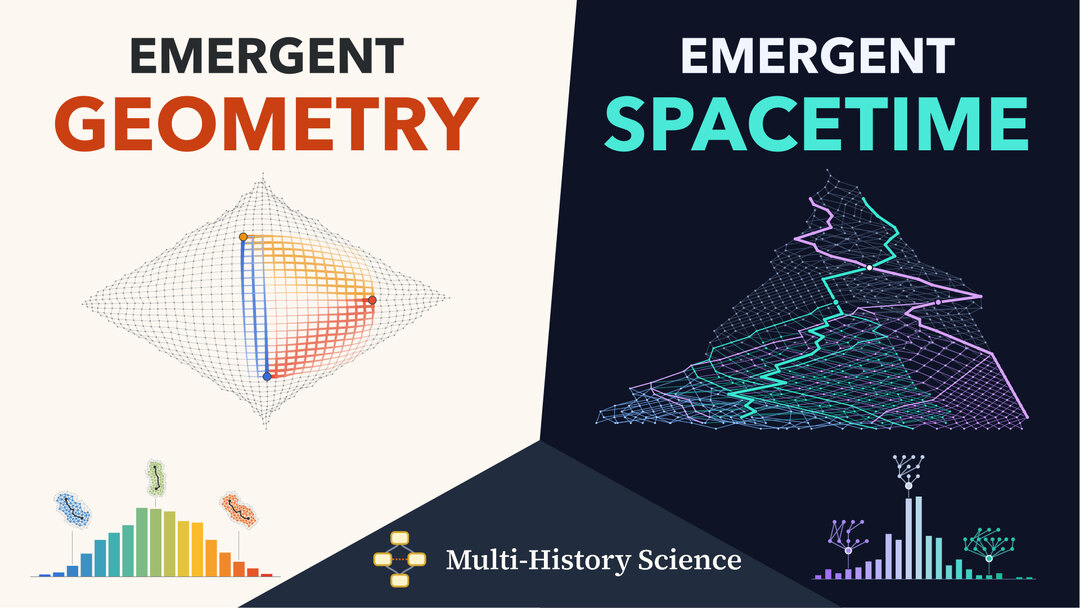
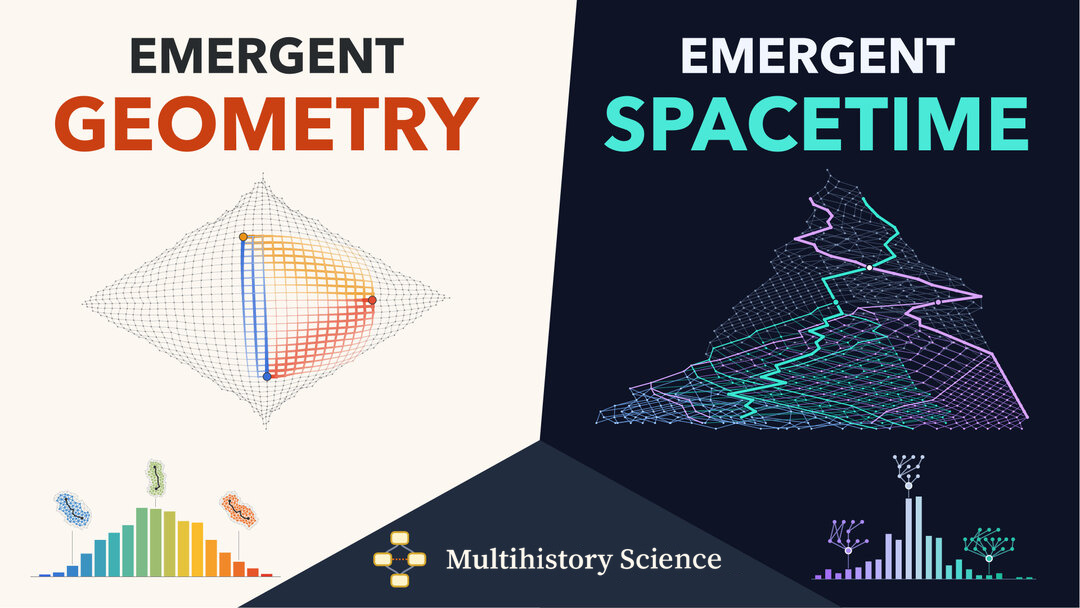
chore: rename Multi-History Science to Multihistory Science (#3)
Adopt **Multihistory Science** across the website, including page
metadata, the timeline, and the thumbnail for the second Hyperseminar.
The original seminar slides remain a historical record.

The naming poll selected option 2.

![Naming poll showing Multihistory with the most
votes](https://github.com/user-attachments/assets/36edfa5b-3809-4606-9a23-04ece4e85ff2)

Changed region(s): [[0.3972, 0.9062, 0.7028, 0.9688]]

diff --git a/src/data/home.ts b/src/data/home.ts
@@ -7,7 +7,7 @@ import spacetimeCover from "../assets/home/emergent-spacetime.jpg";
 export const initialSeminars = [
   { number: 0, title: "Opening session", label: "Hyperseminar #0", videoId: "7yZdt7J2mkc", cover: openingCover },
   { number: 1, title: "Arity Science Findings", label: "Hyperseminar #1 · Carlos Zapata-Carratalá", videoId: "7u6_pvzH_qA", cover: arityCover },
-  { number: 2, title: "Kick-Starting Multi-History Science", label: "Hyperseminar #2 · Pavel Hájek", videoId: "ssW5TOolokQ", cover: kickoffCover },
+  { number: 2, title: "Kick-Starting Multihistory Science", label: "Hyperseminar #2 · Pavel Hájek", videoId: "ssW5TOolokQ", cover: kickoffCover },
 ] as const;
 
 export const home = {
@@ -29,7 +29,7 @@ export const home = {
     { date: "2018-10-07", label: "First SetReplace commit", href: "https://github.com/maxitg/SetReplace/commit/29778d8dda29b69e33a00e9c9cf7ed062699ae0b" },
     { date: "2023-09-12", label: "Infrageometry live sessions", href: "https://www.youtube.com/watch?v=CY9ZwYiftxA" },
     { date: "2025-06-04", label: "Causality, Observers and Computation grant", href: "https://www.templeton.org/grant/causality-observers-and-computation-a-new-approach-to-fundamental-physics-and-metamathematics" },
-    { date: "2026-11-02", label: "Multi-History Science begins", href: "~/timeline/" },
+    { date: "2026-11-02", label: "Multihistory Science begins", href: "~/timeline/" },
   ],
   seminars: [...initialSeminars].reverse(),
   guideCovers: {

diff --git a/src/data/site.ts b/src/data/site.ts
@@ -1,8 +1,8 @@
-// Site settings for Multi-History Science. Internal links are built with `href()`, so the site
+// Site settings for Multihistory Science. Internal links are built with `href()`, so the site
 // can be served from a domain root (base "") or from a sub-path (e.g. base "/multihistory",
 // as on arity.science). If you change `base`, set the same value as `base` in astro.config.mjs.
 export const site = {
-  name: "Multi-History Science",
+  name: "Multihistory Science",
   // Public address of the site, used for canonical links and the sitemap. Change it with the domain.
   url: "https://multihistory.org",
   base: "",

diff --git a/src/lib/multihistory.ts b/src/lib/multihistory.ts
@@ -43,5 +43,5 @@ export function shortDate(d: string) {
   return day ? `${+day} ${MONTHS[+m - 1]}` : MONTHS[+m - 1];
 }
 
-/** Data files write links within Multi-History Science as "~/path"; they resolve against the current base. */
+/** Data files write links within Multihistory Science as "~/path"; they resolve against the current base. */
 export const link = (url: string) => (url.startsWith("~/") ? href(url.slice(1)) : url);

diff --git a/src/lib/multiway.ts b/src/lib/multiway.ts
@@ -1,5 +1,5 @@
 // Builds the multiway graph of a string rewriting system and lays it out in layers,
-// for the Multi-History Science illustrations. Everything runs at build time.
+// for the Multihistory Science illustrations. Everything runs at build time.
 
 export type Rule = [string, string];
 export interface MwNode { id: string; layer: number; x: number; y: number }

diff --git a/src/styles/global.css b/src/styles/global.css
@@ -1,4 +1,4 @@
-/* Multi-History Science site styles.
+/* Multihistory Science site styles.
    "Computational notebook" style: warm white paper, pale yellow state boxes, grey-blue multiway
    arrows and orange causal edges. The dark scheme is the same notebook on slate: the paper
    becomes the text colour and the state boxes turn amber. */

diff --git a/AGENTS.md b/AGENTS.md
@@ -4,7 +4,7 @@ Read this whole file before changing anything. It is written for any AI agent or
 
 ## 1. What this site is
 
-**Multi-History Science** is an independent record of a research collaboration. Its members worked on the foundational, technical and mathematical aspects of the Wolfram Physics Project (WPP). The site documents who originated which streams of ideas, using public evidence (code, papers, bulletins, recordings, credits) and the members' own personal statements.
+**Multihistory Science** is an independent record of a research collaboration. Its members worked on the foundational, technical and mathematical aspects of the Wolfram Physics Project (WPP). The site documents who originated which streams of ideas, using public evidence (code, papers, bulletins, recordings, credits) and the members' own personal statements.
 
 The owner's stated purpose, to keep in mind on every edit: *the goal is not to appropriate anything from the Wolfram Physics Project. It is to identify who originated particular streams of ideas, reflect it, and keep that record in a place that is independent of the Wolfram Physics Project.*
 
@@ -126,7 +126,7 @@ The style is a "computational notebook" look, light with a dark counterpart, ins
 
 ## 7. Decisions already made with the owner (do not undo without asking)
 
-- **Name:** the site is "Multi-History Science", with a hyphen.
+- **Name:** the site is "Multihistory Science".
 - **Search engines:** it is `noindex` while it is a prototype (`site.noindex`); with `noindex` on, there is no sitemap and no canonical link. Turn it off only when the owner says the site is public on its own domain.
 - **Carlos's statement:**
   - transcription errors in names and terms were corrected; otherwise it is his wording;

diff --git a/README.md b/README.md
@@ -1,4 +1,4 @@
-# Multi-History Science
+# Multihistory Science
 
 An independent research collaboration on rewrite systems, hypergraphs, causality and emergent spacetime.
 
